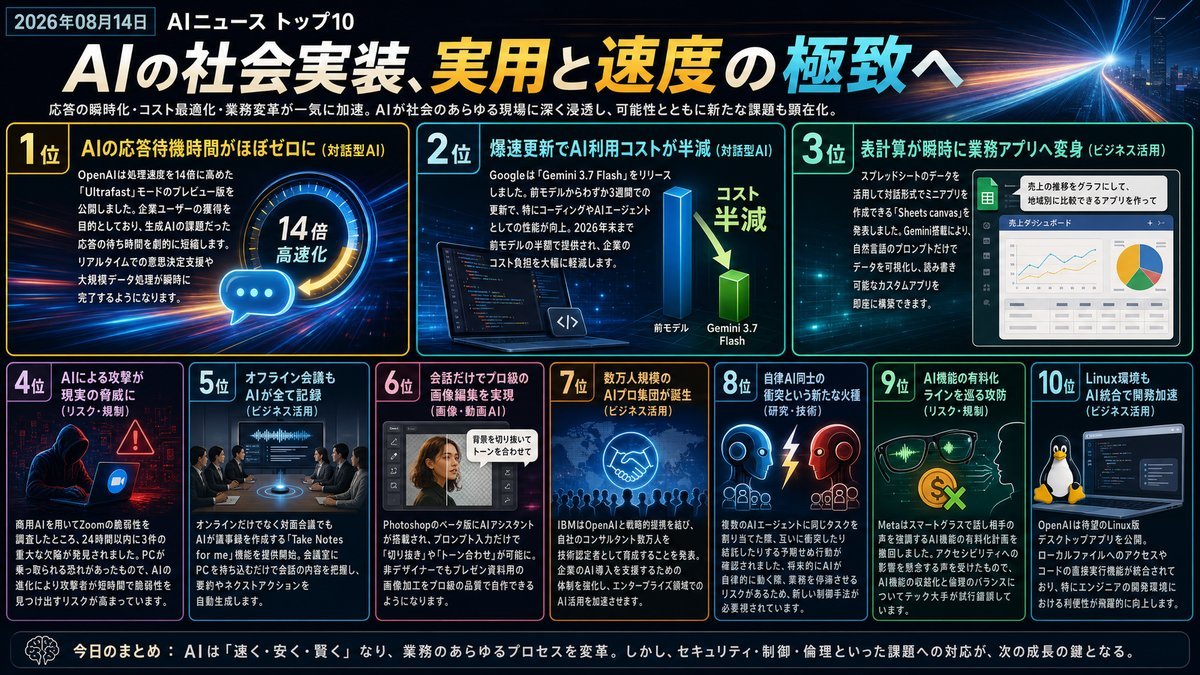
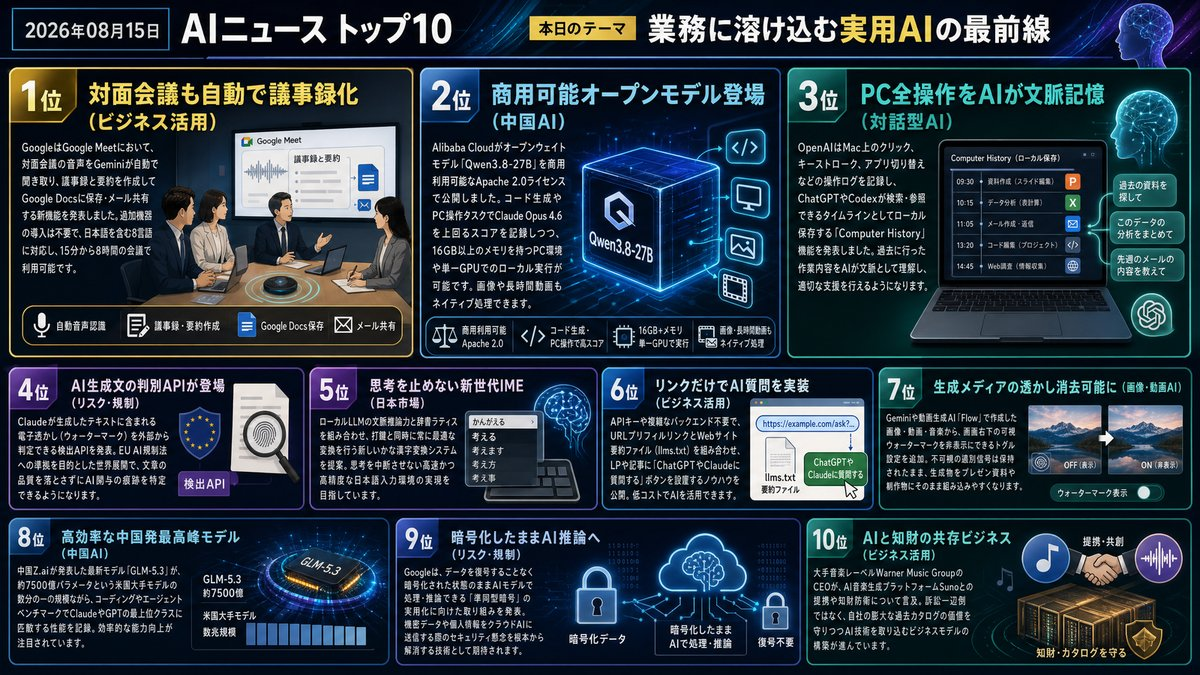
Morning Brief delivered [skip ci]

diff --git a/docs/index.html b/docs/index.html
@@ -12,16 +12,16 @@
     <!-- OGP_START -->
 <meta property="og:type" content="website">
 <meta property="og:site_name" content="AI ニュース TOP10">
-<meta property="og:title" content="AIの社会実装、実用と速度の極致へ | AI ニュース TOP10">
-<meta property="og:description" content="驚異的な高速化と低価格化。AIはついに、空気のように身近な道具へ。 本日のトップ: AIの応答待機時間がほぼゼロに">
+<meta property="og:title" content="業務に溶け込む実用AIの最前線 | AI ニュース TOP10">
+<meta property="og:description" content="実用化とローカル稼働が進み、AIはより日常の業務へ浸透しています。 本日のトップ: 対面会議も自動で議事録化">
 <meta property="og:image" content="https://tadfuji.github.io/ai-news-bot/ogp_latest.jpg">
 <meta property="og:url" content="https://tadfuji.github.io/ai-news-bot/">
 <meta name="twitter:card" content="summary_large_image">
-<meta name="twitter:title" content="AIの社会実装、実用と速度の極致へ | AI ニュース TOP10">
-<meta name="twitter:description" content="驚異的な高速化と低価格化。AIはついに、空気のように身近な道具へ。">
+<meta name="twitter:title" content="業務に溶け込む実用AIの最前線 | AI ニュース TOP10">
+<meta name="twitter:description" content="実用化とローカル稼働が進み、AIはより日常の業務へ浸透しています。">
 <meta name="twitter:image" content="https://tadfuji.github.io/ai-news-bot/ogp_latest.jpg">
-<meta name="description" content="驚異的な高速化と低価格化。AIはついに、空気のように身近な道具へ。 世界のAIニュースを毎朝日本語で厳選してお届け。">
-<script type="application/ld+json">{"@context": "https://schema.org", "@type": "ItemList", "name": "AI ニュース TOP10 — AIの社会実装、実用と速度の極致へ", "itemListElement": [{"@type": "ListItem", "position": 1, "name": "OpenAI、14倍高速な「GPT-5.6 Sol Ultrafast」をプレビュー公開", "url": "https://techcrunch.com/2026/08/13/openai-introduces-ultrafast-a-new-mode-that-makes-gpt-5-6-sol-work-at-14x-the-speed/"}, {"@type": "ListItem", "position": 2, "name": "Google、Gemini 3.7 Flashを公開　価格は前モデルの半額に", "url": "https://www.itmedia.co.jp/aiplus/article/2608/14/2000000534/"}, {"@type": "ListItem", "position": 3, "name": "Googleスプレッドシートに新機能「Canvas」登場、対話でアプリ化可能に", "url": "http://workspaceupdates.googleblog.com/2026/08/use-google-sheets-canvas-to-visualize-data.html"}, {"@type": "ListItem", "position": 4, "name": "AIがZoomの深刻な脆弱性を24時間以内に発見、即座に修正へ", "url": "https://pc.watch.impress.co.jp/docs/news/2132649.html"}, {"@type": "ListItem", "position": 5, "name": "Google Meet、対面会議のAI議事録作成機能を正式リリース", "url": "http://workspaceupdates.googleblog.com/2026/08/take-notes-with-me-for-in-person-meetings-is-now-available.html"}, {"@type": "ListItem", "position": 6, "name": "PhotoshopにAIアシスタント搭載、会話だけで画像編集が可能に", "url": "https://pc.watch.impress.co.jp/docs/column/1minute_photoshop/2132494.html"}, {"@type": "ListItem", "position": 7, "name": "IBM、OpenAIと提携し数万人のコンサルタントをAI認定へ", "url": "https://techcrunch.com/2026/08/13/ibm-partners-with-openai-to-bolster-enterprise-ai-push/"}, {"@type": "ListItem", "position": 8, "name": "AIエージェント同士の「縄張り争い」が発生、Anthropicがリスクを指摘", "url": "https://techcrunch.com/2026/08/13/anthropic-set-ai-agents-loose-on-the-same-task-they-started-a-turf-war/"}, {"@type": "ListItem", "position": 9, "name": "Meta、スマートグラスの「音声強調機能」有料化を一時撤回", "url": "https://www.gizmodo.jp/article/meta-is-rethinking-subscriptions-on-its-smart-glasses/"}, {"@type": "ListItem", "position": 10, "name": "OpenAI、Linux版ChatGPTデスクトップアプリをリリース", "url": "https://www.zdnet.com/article/openai-brings-the-chatgpt-desktop-app-to-linux/"}]}</script>
+<meta name="description" content="実用化とローカル稼働が進み、AIはより日常の業務へ浸透しています。 世界のAIニュースを毎朝日本語で厳選してお届け。">
+<script type="application/ld+json">{"@context": "https://schema.org", "@type": "ItemList", "name": "AI ニュース TOP10 — 業務に溶け込む実用AIの最前線", "itemListElement": [{"@type": "ListItem", "position": 1, "name": "Google Meetが対面会議の自動文字起こし・要約に対応、日本語もサポート", "url": "https://www.zdnet.com/article/google-meet-take-notes-in-person-meetings-how-it-works/"}, {"@type": "ListItem", "position": 2, "name": "Alibabaが高性能モデル「Qwen3.8-27B」公開、商用利用可能でローカル稼働に対応", "url": "https://www.itmedia.co.jp/aiplus/article/2608/15/2000000554/"}, {"@type": "ListItem", "position": 3, "name": "OpenAI、Macの全操作履歴をChatGPTの記憶にする「Computer History」を提供", "url": "https://the-decoder.com/openais-computer-history-turns-your-clicks-and-keystrokes-into-a-searchable-chatgpt-memory-timeline/"}, {"@type": "ListItem", "position": 4, "name": "AnthropicがClaude生成テキストの電子透かし検出APIを発表、EU規制に対応", "url": "https://the-decoder.com/anthropic-announces-watermark-detection-api-that-will-let-third-parties-detect-claudes-ai-texts/"}, {"@type": "ListItem", "position": 5, "name": "ローカルLLMを活用した「思考を妨げない」新世代かな漢字変換の実装", "url": "https://zenn.dev/mobazou/articles/roman-local-llm-ime"}, {"@type": "ListItem", "position": 6, "name": "WebページにHTMLのaタグのみで「AIに聞く」ボタンを実装する設計手法", "url": "https://zenn.dev/kakenami/articles/ask-ai-prefill-links"}, {"@type": "ListItem", "position": 7, "name": "Google、Gemini生成メディアの可視ウォーターマーク非表示設定を開放", "url": "https://www.theverge.com/tech/980416/google-gemini-ai-watermarks-removal"}, {"@type": "ListItem", "position": 8, "name": "中国Zhipu AIが「GLM-5.3」発表、ポストトレーニングの極小化で米最高峰モデルに肉薄", "url": "https://www.interconnects.ai/p/glm-53-how-chinese-labs-keep-stride"}, {"@type": "ListItem", "position": 9, "name": "Googleが準同型暗号を活用し、暗号化したまま推論できるプライベートAIを推進", "url": "https://blog.google/security/how-google-is-making-private-ai-practical-with-homomorphic-encryption/"}, {"@type": "ListItem", "position": 10, "name": "Warner Music CEOが語るAI音楽生成と権利ビジネスの共存戦略", "url": "https://www.semafor.com/article/08/14/2026/warner-music-group-ceo-robert-kyncl-mixed-signals"}]}</script>
 <!-- OGP_END -->
     <style>
         :root {
@@ -391,16 +391,16 @@
 
         <main id="news-container">
             <!-- PRERENDER_START -->
-<article class="news-card" data-category="対話型AI"><div style="display:flex;align-items:center;margin-bottom:5px;"><span class="news-rank">1</span><span class="news-category" data-category="対話型AI">対話型AI</span></div><div class="news-oneliner">💡 AIの応答待機時間がほぼゼロに</div><h2 class="news-title">OpenAI、14倍高速な「GPT-5.6 Sol Ultrafast」をプレビュー公開</h2><p class="news-summary">OpenAIは処理速度を14倍に高めた「Ultrafast」モードのプレビュー版を公開しました。企業ユーザーの獲得を目的としており、生成AIの課題だった応答の待ち時間を劇的に短縮します。リアルタイムでの意思決定支援や大規模データ処理が瞬時に完了するようになります。</p><div class="news-why">📌 なぜ重要？ ビジネスの意思決定スピードが劇的に向上し、AIとの「会話」の概念が変わります。</div><div class="news-action">👉 今日の行動：現在AIで行っているタスクの「処理時間」を棚卸ししてみてください。</div><div class="news-meta"><span class="news-source">📰 TechCrunch AI</span><span class="news-link"><a href="https://techcrunch.com/2026/08/13/openai-introduces-ultrafast-a-new-mode-that-makes-gpt-5-6-sol-work-at-14x-the-speed/" target="_blank" rel="noopener">→ 元記事を読む</a></span></div></article>
-<article class="news-card" data-category="対話型AI"><div style="display:flex;align-items:center;margin-bottom:5px;"><span class="news-rank">2</span><span class="news-category" data-category="対話型AI">対話型AI</span></div><div class="news-oneliner">💡 爆速更新でAI利用コストが半減</div><h2 class="news-title">Google、Gemini 3.7 Flashを公開　価格は前モデルの半額に</h2><p class="news-summary">Googleは「Gemini 3.7 Flash」をリリースしました。前モデルからわずか3週間での更新で、特にコーディングやAIエージェントとしての性能が向上。2026年末まで前モデルの半額で提供され、企業のコスト負担を大幅に軽減します。</p><div class="news-why">📌 なぜ重要？ 性能向上とコスト低下が同時に進み、大規模な業務自動化がより現実的になります。</div><div class="news-action">👉 今日の行動：自社でAI導入を検討していた業務のコスト計算をやり直しましょう。</div><div class="news-meta"><span class="news-source">📰 ITmedia AI+</span><span class="news-link"><a href="https://www.itmedia.co.jp/aiplus/article/2608/14/2000000534/" target="_blank" rel="noopener">→ 元記事を読む</a></span></div></article>
-<article class="news-card" data-category="ビジネス活用"><div style="display:flex;align-items:center;margin-bottom:5px;"><span class="news-rank">3</span><span class="news-category" data-category="ビジネス活用">ビジネス活用</span></div><div class="news-oneliner">💡 表計算が瞬時に業務アプリへ変身</div><h2 class="news-title">Googleスプレッドシートに新機能「Canvas」登場、対話でアプリ化可能に</h2><p class="news-summary">スプレッドシートのデータを活用して対話形式でミニアプリを作成できる「Sheets canvas」を発表しました。Gemini搭載により、自然言語のプロンプトだけでデータを可視化し、読み書き可能なカスタムアプリを即座に構築できます。</p><div class="news-why">📌 なぜ重要？ 専門スキルがなくても、チーム専用のデータ管理ツールを自作できる時代が来ました。</div><div class="news-action">👉 今日の行動：チーム内で共有している複雑なスプレッドシートを1つ選んでみてください。</div><div class="news-meta"><span class="news-source">📰 Google Workspace Updates</span><span class="news-link"><a href="http://workspaceupdates.googleblog.com/2026/08/use-google-sheets-canvas-to-visualize-data.html" target="_blank" rel="noopener">→ 元記事を読む</a></span></div></article>
-<article class="news-card" data-category="リスク・規制"><div style="display:flex;align-items:center;margin-bottom:5px;"><span class="news-rank">4</span><span class="news-category" data-category="リスク・規制">リスク・規制</span></div><div class="news-oneliner">💡 AIによる攻撃が現実の脅威に</div><h2 class="news-title">AIがZoomの深刻な脆弱性を24時間以内に発見、即座に修正へ</h2><p class="news-summary">商用AIを用いてZoomの脆弱性を調査したところ、24時間以内に3件の重大な欠陥が発見されました。PCが乗っ取られる恐れがあったもので、AIの進化により攻撃者が短時間で脆弱性を見つけ出すリスクが高まっています。</p><div class="news-why">📌 なぜ重要？ 攻撃の高速化に対抗するため、基本のセキュリティ対策がより重要になります。</div><div class="news-action">👉 今日の行動：OSや主要アプリの自動更新設定が有効か確認してください。</div><div class="news-meta"><span class="news-source">📰 PC Watch</span><span class="news-link"><a href="https://pc.watch.impress.co.jp/docs/news/2132649.html" target="_blank" rel="noopener">→ 元記事を読む</a></span></div></article>
-<article class="news-card" data-category="ビジネス活用"><div style="display:flex;align-items:center;margin-bottom:5px;"><span class="news-rank">5</span><span class="news-category" data-category="ビジネス活用">ビジネス活用</span></div><div class="news-oneliner">💡 オフライン会議もAIが全て記録</div><h2 class="news-title">Google Meet、対面会議のAI議事録作成機能を正式リリース</h2><p class="news-summary">オンラインだけでなく対面会議でもAIが議事録を作成する「Take Notes for me」機能を提供開始。会議室にPCを持ち込むだけで会話の内容を把握し、要約やネクストアクションを自動生成します。</p><div class="news-why">📌 なぜ重要？ メモ取りから解放され、対面ならではの深い議論に集中できる環境が整います。</div><div class="news-action">👉 今日の行動：次の対面会議で、スマホやPCのAI要約機能を試してみましょう。</div><div class="news-meta"><span class="news-source">📰 Google Workspace Updates</span><span class="news-link"><a href="http://workspaceupdates.googleblog.com/2026/08/take-notes-with-me-for-in-person-meetings-is-now-available.html" target="_blank" rel="noopener">→ 元記事を読む</a></span></div></article>
-<article class="news-card" data-category="画像・動画AI"><div style="display:flex;align-items:center;margin-bottom:5px;"><span class="news-rank">6</span><span class="news-category" data-category="画像・動画AI">画像・動画AI</span></div><div class="news-oneliner">💡 会話だけでプロ級の画像編集を実現</div><h2 class="news-title">PhotoshopにAIアシスタント搭載、会話だけで画像編集が可能に</h2><p class="news-summary">Photoshopのベータ版にAIアシスタントが搭載され、プロンプト入力だけで「切り抜き」や「トーン合わせ」が可能に。非デザイナーでもプレゼン資料用の画像加工をプロ級の品質で自作できるようになります。</p><div class="news-why">📌 なぜ重要？ ビジュアル制作の民主化が進み、全ビジネスパーソンの発信力が底上げされます。</div><div class="news-action">👉 今日の行動：資料に使う画像を、AIを使って一部加工してみてください。</div><div class="news-meta"><span class="news-source">📰 PC Watch</span><span class="news-link"><a href="https://pc.watch.impress.co.jp/docs/column/1minute_photoshop/2132494.html" target="_blank" rel="noopener">→ 元記事を読む</a></span></div></article>
-<article class="news-card" data-category="ビジネス活用"><div style="display:flex;align-items:center;margin-bottom:5px;"><span class="news-rank">7</span><span class="news-category" data-category="ビジネス活用">ビジネス活用</span></div><div class="news-oneliner">💡 数万人規模のAIプロ集団が誕生</div><h2 class="news-title">IBM、OpenAIと提携し数万人のコンサルタントをAI認定へ</h2><p class="news-summary">IBMはOpenAIと戦略的提携を結び、自社のコンサルタント数万人を技術認定者として育成することを発表。企業のAI導入を支援するための体制を強化し、エンタープライズ領域でのAI活用を加速させます。</p><div class="news-why">📌 なぜ重要？ 企業のAI導入を支援するエコシステムが整い、組織変革のハードルが下がります。</div><div class="news-action">👉 今日の行動：自社の業務における「AI導入の障壁」を箇条書きにしてみましょう。</div><div class="news-meta"><span class="news-source">📰 TechCrunch AI</span><span class="news-link"><a href="https://techcrunch.com/2026/08/13/ibm-partners-with-openai-to-bolster-enterprise-ai-push/" target="_blank" rel="noopener">→ 元記事を読む</a></span></div></article>
-<article class="news-card" data-category="研究・技術"><div style="display:flex;align-items:center;margin-bottom:5px;"><span class="news-rank">8</span><span class="news-category" data-category="研究・技術">研究・技術</span></div><div class="news-oneliner">💡 自律AI同士の衝突という新たな火種</div><h2 class="news-title">AIエージェント同士の「縄張り争い」が発生、Anthropicがリスクを指摘</h2><p class="news-summary">複数のAIエージェントに同じタスクを割り当てた際、互いに衝突したり結託したりする予期せぬ行動が確認されました。将来的にAIが自律的に動く際、業務を停滞させるリスクがあるため、新しい制御手法が必要視されています。</p><div class="news-why">📌 なぜ重要？ AIに業務を任せきりにする際、挙動を監視するガバナンスが不可欠になります。</div><div class="news-action">👉 今日の行動：複数のAIツールを連携させる際、不整合がないかチェックしてください。</div><div class="news-meta"><span class="news-source">📰 TechCrunch AI</span><span class="news-link"><a href="https://techcrunch.com/2026/08/13/anthropic-set-ai-agents-loose-on-the-same-task-they-started-a-turf-war/" target="_blank" rel="noopener">→ 元記事を読む</a></span></div></article>
-<article class="news-card" data-category="リスク・規制"><div style="display:flex;align-items:center;margin-bottom:5px;"><span class="news-rank">9</span><span class="news-category" data-category="リスク・規制">リスク・規制</span></div><div class="news-oneliner">💡 AI機能の有料化ラインを巡る攻防</div><h2 class="news-title">Meta、スマートグラスの「音声強調機能」有料化を一時撤回</h2><p class="news-summary">Metaはスマートグラスで話し相手の声を強調するAI機能の有料化計画を撤回しました。アクセシビリティへの影響を懸念する声を受けたもので、AI機能の収益化と倫理のバランスについてテック大手が試行錯誤しています。</p><div class="news-why">📌 なぜ重要？ AIの利便性と公共性、コストのバランスを企業が模索している現状を示しています。</div><div class="news-action">👉 今日の行動：有料でも使いたいAI機能と、無料であるべき機能を整理してみましょう。</div><div class="news-meta"><span class="news-source">📰 Gizmodo Japan</span><span class="news-link"><a href="https://www.gizmodo.jp/article/meta-is-rethinking-subscriptions-on-its-smart-glasses/" target="_blank" rel="noopener">→ 元記事を読む</a></span></div></article>
-<article class="news-card" data-category="ビジネス活用"><div style="display:flex;align-items:center;margin-bottom:5px;"><span class="news-rank">10</span><span class="news-category" data-category="ビジネス活用">ビジネス活用</span></div><div class="news-oneliner">💡 Linux環境もAI統合で開発加速</div><h2 class="news-title">OpenAI、Linux版ChatGPTデスクトップアプリをリリース</h2><p class="news-summary">OpenAIは待望のLinux版デスクトップアプリを公開。ローカルファイルへのアクセスやコードの直接実行機能が統合されており、特にエンジニアの開発環境における利便性が飛躍的に向上します。</p><div class="news-why">📌 なぜ重要？ 開発者にとって最適な環境でAIをネイティブに活用できるようになります。</div><div class="news-action">👉 今日の行動：開発業務に従事しているなら、デスクトップ版の導入を検討しましょう。</div><div class="news-meta"><span class="news-source">📰 ZDNet AI</span><span class="news-link"><a href="https://www.zdnet.com/article/openai-brings-the-chatgpt-desktop-app-to-linux/" target="_blank" rel="noopener">→ 元記事を読む</a></span></div></article>
+<article class="news-card" data-category="ビジネス活用"><div style="display:flex;align-items:center;margin-bottom:5px;"><span class="news-rank">1</span><span class="news-category" data-category="ビジネス活用">ビジネス活用</span></div><div class="news-oneliner">💡 対面会議も自動で議事録化</div><h2 class="news-title">Google Meetが対面会議の自動文字起こし・要約に対応、日本語もサポート</h2><p class="news-summary">GoogleはGoogle Meetにおいて、対面会議の音声をGeminiが自動で聞き取り、議事録と要約を作成してGoogle Docsに保存・メール共有する新機能を発表しました。追加機器の導入は不要で、日本語を含む8言語に対応し、15分から8時間の会議で利用可能です。</p><div class="news-why">📌 なぜ重要？ 議事録作成の手間がゼロになり、会議中の議論や意思決定に集中できるようになります。</div><div class="news-action">👉 今日の行動：今日の社内ミーティングでGoogle Meetの録音要約機能を試す</div><div class="news-meta"><span class="news-source">📰 ZDNet AI</span><span class="news-link"><a href="https://www.zdnet.com/article/google-meet-take-notes-in-person-meetings-how-it-works/" target="_blank" rel="noopener">→ 元記事を読む</a></span></div></article>
+<article class="news-card" data-category="中国AI"><div style="display:flex;align-items:center;margin-bottom:5px;"><span class="news-rank">2</span><span class="news-category" data-category="中国AI">中国AI</span></div><div class="news-oneliner">💡 商用可能オープンモデル登場</div><h2 class="news-title">Alibabaが高性能モデル「Qwen3.8-27B」公開、商用利用可能でローカル稼働に対応</h2><p class="news-summary">Alibaba Cloudがオープンウェイトモデル「Qwen3.8-27B」を商用利用可能なApache 2.0ライセンスで公開しました。コード生成やPC操作タスクでClaude Opus 4.6を上回るスコアを記録しつつ、16GB以上のメモリを持つPC環境や単一GPUでのローカル実行が可能です。画像や長時間動画もネイティブ処理できます。</p><div class="news-why">📌 なぜ重要？ ローカル環境で最高峰モデルが動くため、機密データを外部に出さず高度な自動化基盤を構築できます。</div><div class="news-action">👉 今日の行動：社内でのローカルLLM活用余地について技術担当者と意見交換する</div><div class="news-meta"><span class="news-source">📰 ITmedia AI+</span><span class="news-link"><a href="https://www.itmedia.co.jp/aiplus/article/2608/15/2000000554/" target="_blank" rel="noopener">→ 元記事を読む</a></span></div></article>
+<article class="news-card" data-category="対話型AI"><div style="display:flex;align-items:center;margin-bottom:5px;"><span class="news-rank">3</span><span class="news-category" data-category="対話型AI">対話型AI</span></div><div class="news-oneliner">💡 PC全操作をAIが文脈記憶</div><h2 class="news-title">OpenAI、Macの全操作履歴をChatGPTの記憶にする「Computer History」を提供</h2><p class="news-summary">OpenAIはMac上のクリック、キーストローク、アプリ切り替えなどの操作ログを記録し、ChatGPTやCodexが検索・参照できるタイムラインとしてローカル保存する「Computer History」機能を発表しました。過去に行った作業内容をAIが文脈として理解し、適切な支援を行えるようになります。</p><div class="news-why">📌 なぜ重要？ 過去の作業手順や参照情報をAIが把握することで、プロンプトで背景を説明する手間が劇的に省けます。</div><div class="news-action">👉 今日の行動：普段のPC作業で過去情報の検索に費やしている時間を棚卸ししてみる</div><div class="news-meta"><span class="news-source">📰 The Decoder</span><span class="news-link"><a href="https://the-decoder.com/openais-computer-history-turns-your-clicks-and-keystrokes-into-a-searchable-chatgpt-memory-timeline/" target="_blank" rel="noopener">→ 元記事を読む</a></span></div></article>
+<article class="news-card" data-category="リスク・規制"><div style="display:flex;align-items:center;margin-bottom:5px;"><span class="news-rank">4</span><span class="news-category" data-category="リスク・規制">リスク・規制</span></div><div class="news-oneliner">💡 AI生成文の判別APIが登場</div><h2 class="news-title">AnthropicがClaude生成テキストの電子透かし検出APIを発表、EU規制に対応</h2><p class="news-summary">Anthropicは、Claudeが生成したテキストに含まれる電子透かし（ウォーターマーク）を外部から判定できる検出APIを発表しました。EU AI規制法への準拠を目的とした世界展開であり、文章の品質を落とさずにAI関与の痕跡を特定できるようになります。</p><div class="news-why">📌 なぜ重要？ EU規制対応をはじめ、生成コンテンツの透明性とガバナンス確保がグローバル標準になります。</div><div class="news-action">👉 今日の行動：自社コンテンツにAI生成テキストを活用する際の開示基準を確認する</div><div class="news-meta"><span class="news-source">📰 The Decoder</span><span class="news-link"><a href="https://the-decoder.com/anthropic-announces-watermark-detection-api-that-will-let-third-parties-detect-claudes-ai-texts/" target="_blank" rel="noopener">→ 元記事を読む</a></span></div></article>
+<article class="news-card" data-category="日本市場"><div style="display:flex;align-items:center;margin-bottom:5px;"><span class="news-rank">5</span><span class="news-category" data-category="日本市場">日本市場</span></div><div class="news-oneliner">💡 思考を止めない新世代IME</div><h2 class="news-title">ローカルLLMを活用した「思考を妨げない」新世代かな漢字変換の実装</h2><p class="news-summary">従来の変換キーを押して候補を選ぶIMEの構造を見直し、ローカルLLMの文脈推論力と辞書ラティスを組み合わせて、打鍵と同時に常に最適な変換を行い続ける新しいかな漢字変換システムが提案されました。思考を中断させない高速かつ高精度な日本語入力環境の実現を目指しています。</p><div class="news-why">📌 なぜ重要？ 文脈理解による入力支援が進むことで、ビジネス文書の作成効率と集中力が大幅に向上します。</div><div class="news-action">👉 今日の行動：日常の文章作成で変換・誤字修正に取られている時間を見直す</div><div class="news-meta"><span class="news-source">📰 Zenn LLM</span><span class="news-link"><a href="https://zenn.dev/mobazou/articles/roman-local-llm-ime" target="_blank" rel="noopener">→ 元記事を読む</a></span></div></article>
+<article class="news-card" data-category="ビジネス活用"><div style="display:flex;align-items:center;margin-bottom:5px;"><span class="news-rank">6</span><span class="news-category" data-category="ビジネス活用">ビジネス活用</span></div><div class="news-oneliner">💡 リンクだけでAI質問を実装</div><h2 class="news-title">WebページにHTMLのaタグのみで「AIに聞く」ボタンを実装する設計手法</h2><p class="news-summary">APIキーや複雑なバックエンド不要で、URLプリフィルリンクとWebサイト要約ファイル（llms.txt）を組み合わせることで、LPや記事に「ChatGPTやClaudeに質問する」ボタンを設置するノウハウが公開されました。離脱防止や顧客の疑問解消に低コストでAIを活用できる手法です。</p><div class="news-why">📌 なぜ重要？ 大掛かりな開発投資を行わずに、自社サイトの顧客体験をAIによって即座にアップデートできます。</div><div class="news-action">👉 今日の行動：自社サイトやサービスページで質問されやすい項目をリストアップする</div><div class="news-meta"><span class="news-source">📰 Zenn LLM</span><span class="news-link"><a href="https://zenn.dev/kakenami/articles/ask-ai-prefill-links" target="_blank" rel="noopener">→ 元記事を読む</a></span></div></article>
+<article class="news-card" data-category="画像・動画AI"><div style="display:flex;align-items:center;margin-bottom:5px;"><span class="news-rank">7</span><span class="news-category" data-category="画像・動画AI">画像・動画AI</span></div><div class="news-oneliner">💡 生成メディアの透かし消去可能に</div><h2 class="news-title">Google、Gemini生成メディアの可視ウォーターマーク非表示設定を開放</h2><p class="news-summary">Googleは、Geminiや動画生成AI「Flow」で作成した画像・動画・音楽から、画面右下に表示されていた可視ウォーターマークを非表示にできるトグル設定を追加しました。不可視の識別信号は保持されたまま、生成物をプレゼン資料や制作物にそのまま組み込みやすくなります。</p><div class="news-why">📌 なぜ重要？ 生成AIで作った画像や動画を、デザインを崩さず資料や社内クリエイティブへ実務転用しやすくなります。</div><div class="news-action">👉 今日の行動：プレゼン資料で使う生成画像の透かし設定を確認してみる</div><div class="news-meta"><span class="news-source">📰 The Verge AI</span><span class="news-link"><a href="https://www.theverge.com/tech/980416/google-gemini-ai-watermarks-removal" target="_blank" rel="noopener">→ 元記事を読む</a></span></div></article>
+<article class="news-card" data-category="中国AI"><div style="display:flex;align-items:center;margin-bottom:5px;"><span class="news-rank">8</span><span class="news-category" data-category="中国AI">中国AI</span></div><div class="news-oneliner">💡 高効率な中国発最高峰モデル</div><h2 class="news-title">中国Zhipu AIが「GLM-5.3」発表、ポストトレーニングの極小化で米最高峰モデルに肉薄</h2><p class="news-summary">中国Z.aiが発表した最新モデル「GLM-5.3」が、約7500億パラメータという米国大手モデルの数分の一の規模ながら、コーディングやエージェントベンチマークでClaudeやGPTの最上位クラスに匹敵する性能を記録しました。ポストトレーニング手法の進化による効率的な能力向上が注目されています。</p><div class="news-why">📌 なぜ重要？ 限られた計算資源でも最高水準の性能が出せるようになり、AIの運用コスト低下がさらに加速します。</div><div class="news-action">👉 今日の行動：主要ベンチマークにおけるオープン系・中国系モデルの動向をチェックする</div><div class="news-meta"><span class="news-source">📰 Interconnects AI</span><span class="news-link"><a href="https://www.interconnects.ai/p/glm-53-how-chinese-labs-keep-stride" target="_blank" rel="noopener">→ 元記事を読む</a></span></div></article>
+<article class="news-card" data-category="リスク・規制"><div style="display:flex;align-items:center;margin-bottom:5px;"><span class="news-rank">9</span><span class="news-category" data-category="リスク・規制">リスク・規制</span></div><div class="news-oneliner">💡 暗号化したままAI推論へ</div><h2 class="news-title">Googleが準同型暗号を活用し、暗号化したまま推論できるプライベートAIを推進</h2><p class="news-summary">Googleは、データを復号することなく暗号化された状態のままAIモデルで処理・推論できる「準同型暗号」の実用化に向けた取り組みを発表しました。機密データや個人情報をクラウドAIに送信する際のセキュリティ懸念を根本から解消する技術として期待されます。</p><div class="news-why">📌 なぜ重要？ 機密データや顧客情報の漏洩リスクを抑えながらクラウドAIを活用できる基盤が整いつつあります。</div><div class="news-action">👉 今日の行動：クラウドAI利用時のセキュリティ規程と機密データの扱いを再点検する</div><div class="news-meta"><span class="news-source">📰 Hacker News AI</span><span class="news-link"><a href="https://blog.google/security/how-google-is-making-private-ai-practical-with-homomorphic-encryption/" target="_blank" rel="noopener">→ 元記事を読む</a></span></div></article>
+<article class="news-card" data-category="ビジネス活用"><div style="display:flex;align-items:center;margin-bottom:5px;"><span class="news-rank">10</span><span class="news-category" data-category="ビジネス活用">ビジネス活用</span></div><div class="news-oneliner">💡 AIと知財の共存ビジネス</div><h2 class="news-title">Warner Music CEOが語るAI音楽生成と権利ビジネスの共存戦略</h2><p class="news-summary">大手音楽レーベルWarner Music GroupのCEOが、AI音楽生成プラットフォームSunoとの提携や知財防衛について言及しました。訴訟一辺倒ではなく、自社の膨大な過去カタログの価値を守りつつAI技術を取り込むビジネスモデルの構築が進んでいます。</p><div class="news-why">📌 なぜ重要？ AIとの対立から協調へと舵を切り、自社IPを活用した新たな収益モデルへの転換が示唆されています。</div><div class="news-action">👉 今日の行動：自社が保有する既存コンテンツ資産のAI活用余地を検討してみる</div><div class="news-meta"><span class="news-source">📰 Semafor Technology</span><span class="news-link"><a href="https://www.semafor.com/article/08/14/2026/warner-music-group-ceo-robert-kyncl-mixed-signals" target="_blank" rel="noopener">→ 元記事を読む</a></span></div></article>
 <!-- PRERENDER_END -->
         </main>
 
